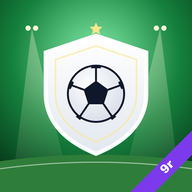
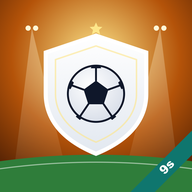
update 9s

diff --git a/css/style.css b/css/style.css
@@ -1,3 +1,7 @@
+/* 9s (FEEDBACK 100): the iPhone home-bar space is added only in the home-screen app. In the Safari browser that space sits
+   under Safari's own toolbar, so adding it there only made the bottom bars taller. */
+:root{--sab:0px}
+@media all and (display-mode: standalone){:root{--sab:env(safe-area-inset-bottom)}}
 
 
 :root{
@@ -270,7 +274,7 @@ body{background:var(--page);font-family:Nunito,system-ui,sans-serif;color:var(--
 .view.scrolly{overflow-y:auto;padding-bottom:96px}
 .view.scrolly::-webkit-scrollbar{display:none}
 button{font-family:inherit;cursor:pointer;color:inherit}
-.tabs{z-index:8;padding-bottom:calc(10px + env(safe-area-inset-bottom))}
+.tabs{z-index:8;padding-bottom:calc(10px + var(--sab))}
 .tab{cursor:pointer;background:none;border:0}
 .hud.top{padding-top:calc(10px + env(safe-area-inset-top))}
 .iconbtn{width:34px;height:34px;border-radius:11px;border:0;background:rgba(0,0,0,.35);color:#fff;font-size:17px;display:inline-flex;align-items:center;justify-content:center}
@@ -281,7 +285,7 @@ button{font-family:inherit;cursor:pointer;color:inherit}
 /* sheets with back history */
 .sheet-bg{position:absolute;inset:0;background:rgba(10,15,30,.5);z-index:20;display:flex;align-items:flex-end;animation:fade .15s}
 @keyframes fade{from{opacity:0}}
-.sheet{width:100%;max-height:92%;overflow-y:auto;background:var(--bg);border-radius:24px 24px 0 0;padding-bottom:calc(20px + env(safe-area-inset-bottom));animation:up .2s ease-out}
+.sheet{width:100%;max-height:92%;overflow-y:auto;background:var(--bg);border-radius:24px 24px 0 0;padding-bottom:calc(20px + var(--sab));animation:up .2s ease-out}
 @keyframes up{from{transform:translateY(40px);opacity:.5}}
 .sheet .grab{width:44px;height:5px;border-radius:3px;background:var(--line);margin:8px auto 2px}
 .shdr{display:flex;align-items:center;gap:8px;padding:6px 12px 8px}
@@ -686,7 +690,7 @@ button{font-family:inherit;cursor:pointer;color:inherit}
 .btn:disabled{opacity:.45;box-shadow:none;cursor:default}
 
 /* ---------- key art (Phase 9) ---------- */
-.splash{justify-content:flex-end;padding-bottom:calc(48px + env(safe-area-inset-bottom));overflow:hidden}
+.splash{justify-content:flex-end;padding-bottom:calc(48px + var(--sab));overflow:hidden}
 .splash>*:not(.splashart){position:relative;z-index:1}
 .splashart{position:absolute;inset:0}
 .splashart:after{content:"";position:absolute;inset:0;background:linear-gradient(180deg,rgba(11,16,38,.55) 0%,rgba(11,16,38,0) 28%,rgba(11,16,38,0) 52%,rgba(11,16,38,.92) 100%)}
@@ -773,7 +777,7 @@ button{font-family:inherit;cursor:pointer;color:inherit}
 .ccard.pick .ben{font-size:13px;font-weight:900;color:var(--fit5);margin:3px 0}
 
 /* ---------- phase-9d: title screen and Home ---------- */
-.title{position:absolute;inset:0;display:flex;flex-direction:column;align-items:center;color:#fff;text-align:center;padding:calc(15vh + env(safe-area-inset-top)) 24px calc(40px + env(safe-area-inset-bottom));overflow:hidden;background:#0b1026}
+.title{position:absolute;inset:0;display:flex;flex-direction:column;align-items:center;color:#fff;text-align:center;padding:calc(15vh + env(safe-area-inset-top)) 24px calc(40px + var(--sab));overflow:hidden;background:#0b1026}
 .title>*:not(.splashart){position:relative;z-index:1}
 .title h1{font-family:Graduate,serif;font-size:50px;letter-spacing:1px;text-shadow:0 3px 0 #c2410c,0 8px 24px rgba(0,0,0,.6)}
 .title .tag{font-weight:800;opacity:.9;margin-top:6px;text-shadow:0 2px 8px rgba(0,0,0,.8)}
@@ -1067,9 +1071,9 @@ button{font-family:inherit;cursor:pointer;color:inherit}
 .pgres{margin-top:7px}.pgres span{background:rgba(0,0,0,.25)}
 .pgbody{flex:1;min-height:0;overflow-y:auto;padding-top:12px;padding-bottom:16px;-webkit-overflow-scrolling:touch}
 .pgbody .res.inv{display:none}
-.pgft{flex:none;display:flex;align-items:center;background:#1e293b;padding:7px 12px calc(7px + env(safe-area-inset-bottom))}
+.pgft{flex:none;display:flex;align-items:center;background:#1e293b;padding:7px 12px calc(7px + var(--sab))}
 .backarrow{width:60px;height:44px;border:0;border-radius:10px;background:linear-gradient(180deg,#38bdf8,#1d4ed8);box-shadow:0 3px 0 #1e3a8a;display:flex;align-items:center;justify-content:center}
-.pop-bg{position:absolute;left:0;right:0;top:calc(84px + env(safe-area-inset-top));bottom:calc(62px + env(safe-area-inset-bottom));z-index:25;background:rgba(10,15,30,.55);display:flex;align-items:center;justify-content:center;padding:6px 10px;animation:fade .15s}
+.pop-bg{position:absolute;left:0;right:0;top:calc(84px + env(safe-area-inset-top));bottom:calc(62px + var(--sab));z-index:25;background:rgba(10,15,30,.55);display:flex;align-items:center;justify-content:center;padding:6px 10px;animation:fade .15s}
 .pop{width:100%;max-width:420px;max-height:100%;display:flex;flex-direction:column;background:var(--bg);border-radius:14px;border:2px solid #64748b;box-shadow:0 18px 40px rgba(0,0,0,.5);overflow:hidden;animation:pop .18s ease-out}
 .pophd{flex:none;display:flex;align-items:center;justify-content:space-between;background:#4a5873;color:#fff;padding:9px 12px}
 .pophd b{font:600 21px/1 Teko,sans-serif;font-style:italic;text-transform:uppercase;letter-spacing:.5px}
@@ -1081,8 +1085,8 @@ button{font-family:inherit;cursor:pointer;color:inherit}
 /* campus */
 .hammer,.upar{animation:none}
 .zbtns{display:none}
-.side.sbl{top:auto;left:8px;bottom:calc(78px + env(safe-area-inset-bottom))}
-.side.srb{top:auto;right:8px;bottom:calc(78px + env(safe-area-inset-bottom));gap:6px}.side.srb .ev .c{width:42px;height:42px;font-size:21px}
+.side.sbl{top:auto;left:8px;bottom:calc(78px + var(--sab))}
+.side.srb{top:auto;right:8px;bottom:calc(78px + var(--sab));gap:6px}.side.srb .ev .c{width:42px;height:42px;font-size:21px}
 .side.sbl .ev{width:56px;font-size:14px}.ev.comms .c{border-radius:50%}
 .fixz{cursor:pointer}
 
@@ -1205,17 +1209,17 @@ button{font-family:inherit;cursor:pointer;color:inherit}
 .view .side{gap:7px}
 .side.tl9{left:8px;top:calc(84px + env(safe-area-inset-top))}
 .side.tr9{right:8px;top:calc(84px + env(safe-area-inset-top))}
-.side.bl9{left:10px;top:auto;bottom:calc(120px + env(safe-area-inset-bottom))}
-.side.br9{right:8px;top:auto;bottom:calc(120px + env(safe-area-inset-bottom))}
+.side.bl9{left:10px;top:auto;bottom:calc(120px + var(--sab))}
+.side.br9{right:8px;top:auto;bottom:calc(120px + var(--sab))}
 .sqb{position:relative;background:none;border:0;padding:0;width:48px;text-align:center;color:#fff;font:600 12.5px/1 Teko,sans-serif;text-shadow:0 1px 0 #0f172a,0 -1px 0 #0f172a,1px 0 0 #0f172a,-1px 0 0 #0f172a;cursor:pointer}
 .sqc{display:flex;align-items:center;justify-content:center;width:42px;height:42px;margin:0 auto 1px;border-radius:10px;border:2px solid #0f172a;box-shadow:0 2px 0 #0f172a,inset 0 1px 0 #fff6}
 .sqb b{display:block;font-weight:600;letter-spacing:.3px}
 .rnd{position:relative;width:40px;height:40px;border-radius:50%;background:rgba(51,65,85,.88);border:2.5px solid #e2e8f0;display:flex;align-items:center;justify-content:center;box-shadow:0 0 0 1.5px #0f172a,0 2px 4px #0006;cursor:pointer;padding:0}
 .rd{position:absolute;top:-4px;right:-3px;min-width:15px;height:15px;padding:0 3px;border-radius:8px;background:#ef4444;border:1.5px solid #fff;color:#fff;font:900 9.5px/12px Nunito;font-style:normal;text-shadow:none}
 .rd:empty{min-width:11px;width:11px;height:11px;padding:0}
-.taskstrip{position:absolute;left:8px;right:8px;bottom:calc(76px + env(safe-area-inset-bottom));z-index:3;display:flex;align-items:center;gap:8px;background:rgba(15,23,42,.82);border:1.5px solid #0f172a;border-radius:8px;padding:5px 8px;color:#fff;font:800 13px Nunito;text-align:left;cursor:pointer}
+.taskstrip{position:absolute;left:8px;right:8px;bottom:calc(76px + var(--sab));z-index:3;display:flex;align-items:center;gap:8px;background:rgba(15,23,42,.82);border:1.5px solid #0f172a;border-radius:8px;padding:5px 8px;color:#fff;font:800 13px Nunito;text-align:left;cursor:pointer}
 .taskstrip .tst{flex:1;white-space:nowrap;overflow:hidden;text-overflow:ellipsis}.taskstrip .tsg{color:#fde047;font-size:18px}
-.drawer{position:absolute;left:0;right:0;bottom:calc(70px + env(safe-area-inset-bottom));z-index:4;background:rgba(15,23,42,.94);border-top:2px solid #0f172a;padding:6px 0 8px}
+.drawer{position:absolute;left:0;right:0;bottom:calc(70px + var(--sab));z-index:4;background:rgba(15,23,42,.94);border-top:2px solid #0f172a;padding:6px 0 8px}
 .dtabs{display:flex;gap:6px;padding:0 8px 6px}.dtabs button{border:1.5px solid #0f172a;border-radius:8px;background:#334155;color:#cbd5e1;font:900 13px Nunito;padding:5px 12px}
 .dtabs button.on{background:#ea580c;color:#fff}.dtabs button:disabled{opacity:.45}.dtabs .dx{margin-left:auto;background:#475569;color:#fff}
 .dstrip{display:flex;gap:8px;overflow-x:auto;padding:4px 8px;scroll-snap-type:x proximity}
@@ -1329,3 +1333,16 @@ html,body{height:100%;overflow:hidden}
 .hhead9{display:flex;gap:12px;align-items:center;margin:10px 12px 0;padding:12px;border-radius:14px;color:#fff;background:linear-gradient(135deg,var(--c1),#0f172a);border:2px solid #0f172a}
 .hhead9 b{font:900 22px/1.05 Graduate,serif;display:block}.hhead9 small{display:block;font-weight:800;font-size:12px;opacity:.9;margin-top:4px}
 .chpop{position:fixed;z-index:130;background:#f8fafc;color:#0f172a;border:2px solid #0f172a;border-radius:10px;padding:8px;box-shadow:0 4px 0 #0f172a;max-width:280px;animation:pop .15s}.chpop b{display:block;font:900 12px Nunito;margin-bottom:4px}
+
+/* 9s: no double-tap zoom; a bigger drawer close button that stays in view */
+html,body{touch-action:manipulation}
+.dtabs{flex-wrap:nowrap}.dtabs button{flex:none}
+.dtabs .dx{position:sticky;right:0;min-width:40px;min-height:34px;font-size:18px;background:#ef4444;color:#fff}
+
+/* any gap left under the frame matches the tab bar instead of showing a grey band */
+html,body{background:var(--card)}
+
+.standalone{--sab:env(safe-area-inset-bottom)}
+#errbar{position:fixed;left:6px;right:6px;top:calc(6px + env(safe-area-inset-top));z-index:999;background:#b91c1c;color:#fff;font:700 12px/1.35 system-ui,sans-serif;border:2px solid #0f172a;border-radius:8px;padding:6px 8px;max-height:40vh;overflow:auto}
+#errbar div+div{margin-top:4px;border-top:1px solid #fff4;padding-top:4px}
+.diag{font:12px/1.5 ui-monospace,Menlo,monospace;background:var(--bg);border-radius:8px;padding:8px;white-space:pre-wrap}

diff --git a/js/screens.js b/js/screens.js
@@ -43,7 +43,7 @@
     const busy = car.queue.length, open = C.openSlots(), rc = C.readyCount();
     const sq = (act, icon, label, badge, bg) => `<button class="sqb" data-act="${act}"><span class="sqc" style="background:${bg}">${C.ico(icon, 26)}</span>${label ? `<b>${label}</b>` : ''}${badge ? `<i class="rd">${badge === true ? '' : badge}</i>` : ''}</button>`;
     const rnd = (act, icon, badge) => `<button class="rnd" data-act="${act}">${C.ico(icon, 24)}${badge ? `<i class="rd">${badge === true ? '' : badge}</i>` : ''}</button>`;
-    const t = C.mainNext && C.mainNext(), claim = t && t[3](car), task = t ? (claim ? `Claim: ${t[2]}` : t[2]) : '';
+    const st = C.stripTask(), claim = st && st.claim, task = st ? st.text : '';
     const newB = Object.keys(C.BUILDINGS).filter(C.buildable).length, readyB = car.queue.some(q => C.buildReady(q.key));
     return `<div class="view">
       <div class="map" id="map"><div id="mapin"></div></div>
@@ -68,6 +68,13 @@
       ${C.drawerOpen ? drawerHTML() : ''}
     </div>`;
   }
+  // screen measurements for checking phone layouts (FEEDBACK 100)
+  C.diagText = () => { const pr = document.createElement('div'); pr.style.cssText = 'position:fixed;bottom:0;height:env(safe-area-inset-bottom);top:env(safe-area-inset-top)'; document.body.appendChild(pr);
+    const cs = getComputedStyle(pr), sab = cs.height, sat = cs.top; pr.remove(); const app = C.$('#app'), r = app ? app.getBoundingClientRect() : { top: 0, bottom: 0, height: 0 }, tb = C.$('.tabs'), t = tb ? tb.getBoundingClientRect() : null;
+    const vv = window.visualViewport;
+    return [`screen ${screen.width}×${screen.height} · dpr ${devicePixelRatio}`, `window ${innerWidth}×${innerHeight}`, `visible ${vv ? Math.round(vv.width) + '×' + Math.round(vv.height) + ' · zoom ' + vv.scale.toFixed(2) : 'n/a'}`,
+      `home-bar space ${sab} · top inset ${sat}`, `app frame ${Math.round(r.top)}–${Math.round(r.bottom)} (h ${Math.round(r.height)})`, t ? `tab bar ${Math.round(t.top)}–${Math.round(t.bottom)}` : 'tab bar n/a',
+      `home-screen app ${matchMedia('(display-mode: standalone)').matches || navigator.standalone ? 'yes' : 'no'}`].join('\n'); };
   // ---------- the one top bar (FEEDBACK 75, 97): college badge as the profile box, resources where you can spend, Store ----------
   C.topBar = (spend, cls = 'tbstatic') => { const car = C.car(), col = C.college(), a = C.acct();
     return `<div class="${cls} tb9">
@@ -232,9 +239,24 @@
   C.ACTS.bgo = v => C.goToBuilding(v);
   C.ACTS.rqueue = () => C.openResearchQueue();
   // the task strip (FEEDBACK 94): claims on the spot when done; otherwise takes you straight to the task
-  C.ACTS.taskgo = () => { const t = C.mainNext && C.mainNext(); if (!t) return; const car = C.car();
-    if (t[3](car)) { const strip = C.$('.taskstrip'), from = strip ? strip.getBoundingClientRect() : null, r = C.mainClaim(t[0]); if (r) { C.render(); C.flyRewards(r, from); } return; }
-    const [act, v] = [t[5], t[6]];
+  // what the strip shows (FEEDBACK 94, 101): a finished Mission to claim; otherwise the next Mission if you can act on it now;
+  // otherwise the most useful thing to do now. Long-term goals (a whole season, several wins) stay on the Missions screen.
+  const LONG = { top4: 1, wins3: 1, win: 1 };
+  C.stripTask = () => { const car = C.car(), t = C.mainNext && C.mainNext();
+    if (t && t[3](car) && t[0] !== 'recfill') return { claim: 1, text: `Claim: ${t[2]}`, t };
+    if (t && !LONG[t[0]] && !(t[5] === 'bldopen' && !C.readyArrow(t[6]) && !C.buildable(t[6]))) return { text: t[2], t };
+    const ks = Object.keys(C.BUILDINGS), done = car.queue.find(q => C.buildReady(q.key));
+    if (done) return { text: `Complete the ${C.BUILDINGS[done.key].name}`, go: () => C.goToBuilding(done.key) };
+    const nb = ks.find(C.buildable); if (nb) return { text: `Build the ${C.BUILDINGS[nb].name}`, go: () => C.goToBuilding(nb) };
+    if (C.freeSlot()) { const r = C.recommendBuilding(); if (r && C.readyArrow(r)) return { text: `Upgrade the ${C.BUILDINGS[r].name} to Lv ${C.level(r) + 1}`, go: () => C.goToBuilding(r) }; }
+    const pr = C.pbRecommend && C.pbRecommend(); if (pr && C.pbAffordable(pr) && C.pbRunning() < C.pbSlots()) return { text: `Research ${C.pbName(pr)}`, go: () => C.act('pbrec') };
+    const open = C.rosterCap(car) - car.squad.length; if (open > 0) return { text: `Fill ${open} open roster spot${open > 1 ? 's' : ''}`, go: () => { C.tab = 'recruit'; C.render(); } };
+    if (!car.pre && C.myFixture && C.myFixture()) return { text: 'Play your next match', go: () => C.act('prematch') };
+    return t ? { text: t[2], t } : null; };
+  C.ACTS.taskgo = () => { const st = C.stripTask(); if (!st) return;
+    if (st.claim) { const strip = C.$('.taskstrip'), from = strip ? strip.getBoundingClientRect() : null, r = C.mainClaim(st.t[0]); if (r) { C.render(); C.flyRewards(r, from); } return; }
+    if (st.go) return st.go();
+    const [act, v] = [st.t[5], st.t[6]];
     if (act === 'bldopen') return C.goToBuilding(v);
     if (act === 'tab') { C.tab = v; C.ui.closeAll(); return C.render(); }
     C.act(act, v); };
@@ -364,6 +386,7 @@
       <label class="fld">Art check: show every building at render… (map only, nothing is changed)</label>
       <div class="rgrid">${[0, 1, 2, 3, 4, 5, 6, 7, 8, 9, 10].map(v => `<button class="${(a.testRender || 0) === v ? 'on' : ''}" data-act="testrender" data-v="${v}">${v || 'Off'}</button>`).join('')}</div>
       <p class="note">Testing tools are for this preview build only.</p>
+      <label class="fld">Screen check (send a screenshot of this if anything looks off)</label><div class="diag" id="diag">${C.diagText()}</div>
       <p class="note">Version: ${C.BUILD}</p><button class="btn full sec2" data-act="checkupdate">🔄 Check for update</button>
       <button class="btn full danger" data-act="wipe">Delete all saved data…</button>`;
   });

diff --git a/js/main.js b/js/main.js
@@ -10,7 +10,7 @@
     if (col) { r.setProperty('--school', col.c1); r.setProperty('--school2', lum(col.c2) > .55 ? (lum(col.c1) < .5 ? col.c1 : '#ea580c') : col.c2); } };
 
   let e2 = null;
-  C.BUILD = 'phase-9r · 16 Nov 2026';
+  C.BUILD = 'phase-9s · 16 Nov 2026';
   // actions that spend something: show a preview first, act only once confirmed
   const NEEDS_OK = { buyweekly: 1, buydeal: 1, buy: 1, buypack: 1, cmanual: 1, clic: 1, ctrait: 1, treatc: 1, buykitc: 1, teamsess: 1, chire: 1 };
   function preview(a, v) {
@@ -37,6 +37,7 @@
     const car = C.car();
     if (NEEDS_OK[a] && !(el && el.dataset.ok)) { const pv = preview(a, v); if (pv) return C.confirm(pv[0], pv[1], pv[2], a, v); }
     if (el && el.dataset.ok) C.ui.back();
+    if (C.drawerOpen && a !== 'drawer' && a !== 'drawertab') { C.drawerOpen = false; const d = C.$('.drawer'); if (d) d.remove(); }   // any action from the drawer closes it
     if (C.ACTS[a]) return C.ACTS[a](v, el);   // actions registered by later modules (meta.js)
     switch (a) {
       case 'tab': C.tab = v; C.selB = null; C.ui.closeAll(); C.render(); break;
@@ -241,9 +242,16 @@
       <button class="btn full pri" data-act="close">Let's build</button>`);
   }
 
+  // 9s (FEEDBACK 101): no page zoom anywhere. iPhone Safari ignores user-scalable=no, so pinches outside the map and
+  // its gesture events are stopped here; the map keeps its own pinch zoom (pointer events, touch-action: none).
+  ['gesturestart', 'gesturechange', 'gestureend'].forEach(ev => document.addEventListener(ev, e => e.preventDefault(), { passive: false }));
+  document.addEventListener('touchmove', e => { if (e.touches.length > 1 && !e.target.closest('#map')) e.preventDefault(); }, { passive: false });
+  let lastTouchEnd = 0; document.addEventListener('touchend', e => { const t = Date.now(); if (t - lastTouchEnd < 320 && !e.target.closest('#map, input, textarea')) e.preventDefault(); lastTouchEnd = t; }, { passive: false });
   // one tap handler for everything
   document.addEventListener('click', e => {
     const el = e.target.closest('[data-act]');
+    // the build drawer closes on any tap outside it (FEEDBACK 101)
+    if (C.drawerOpen && !e.target.closest('.drawer') && !(el && el.dataset.act === 'drawer')) { C.drawerOpen = false; C.render(); if (!el) return; }
     if (!el) { if (C.selB && e.target.closest('#map') && !C.mapDragged()) { C.selB = null; C.redrawMap(); } return; }
     if (el.dataset.act === 'bgclose' && e.target !== el) return;
     e2 = e; act(el.dataset.act, el.dataset.v, el);

diff --git a/sw.js b/sw.js
@@ -1,8 +1,8 @@
 // Club FC offline cache. Bump VERSION when you publish a new build.
-const PREFIX = 'clubfc2-p9r';
-const VERSION = 'clubfc2-p9r-net1';
+const PREFIX = 'clubfc2-p9s';
+const VERSION = 'clubfc2-p9s-net1';
 const FILES = ['./', './index.html', './manifest.webmanifest', './css/style.css',
-  './js/util.js', './js/data.js', './js/art-scenes.js', './img/manifest.json', './js/state.js', './js/build.js', './js/names.js', './js/art-faces.js', './js/players.js', './js/squad.js', './js/recruit.js', './js/engine.js', './js/season.js', './js/tactics.js', './js/match.js', './js/staff.js', './js/playbook.js', './js/career.js', './js/liveops.js', './js/medical.js', './js/home.js', './js/icons.js', './js/campus-meta.js', './js/campus-env.js', './js/stadium-paint.js', './js/tower-paint.js', './js/art-campus.js', './js/ui.js', './js/jobs.js', './js/help.js', './js/ad.js', './js/screens.js', './js/meta.js', './js/map.js', './js/progress.js', './js/gear.js', './js/academic.js', './js/levelup.js', './js/research.js', './js/main.js',
+  './js/errbar.js', './js/util.js', './js/data.js', './js/art-scenes.js', './img/manifest.json', './js/state.js', './js/build.js', './js/names.js', './js/art-faces.js', './js/players.js', './js/squad.js', './js/recruit.js', './js/engine.js', './js/season.js', './js/tactics.js', './js/match.js', './js/staff.js', './js/playbook.js', './js/career.js', './js/liveops.js', './js/medical.js', './js/home.js', './js/icons.js', './js/campus-meta.js', './js/campus-env.js', './js/stadium-paint.js', './js/tower-paint.js', './js/art-campus.js', './js/ui.js', './js/jobs.js', './js/help.js', './js/ad.js', './js/screens.js', './js/meta.js', './js/map.js', './js/progress.js', './js/gear.js', './js/academic.js', './js/levelup.js', './js/research.js', './js/main.js',
   './icon-192.png', './icon-512.png', './apple-touch-icon.png'];
 
 // Network first, so a new upload shows up as soon as the page is opened online.

diff --git a/js/state.js b/js/state.js
@@ -1,6 +1,6 @@
 // Club FC: save data, careers (save slots), account and the two clocks (Q13, Q27).
 (function (C) {
-  const KEY = 'clubfc2_p9r';
+  const KEY = 'clubfc2_p9s';
   const FREE_SLOTS = 2;
 
   // Account-wide: Coins and purchases are shared across careers.
@@ -10,7 +10,7 @@
 
   C.load = () => {
     // first open: carry over the latest earlier save (9b, then 9) (and intro flag) so playtest progress isn't lost
-    try { for (const old of ['clubfc2_p9q', 'clubfc2_p9p', 'clubfc2_p9o', 'clubfc2_p9n', 'clubfc2_p9m', 'clubfc2_p9l', 'clubfc2_p9k', 'clubfc2_p9j', 'clubfc2_p9i', 'clubfc2_p9h', 'clubfc2_p9g', 'clubfc2_p9f', 'clubfc2_p9e', 'clubfc2_p9d', 'clubfc2_p9c', 'clubfc2_p9b', 'clubfc2_p9']) { if (!localStorage.getItem(KEY) && localStorage.getItem(old)) { localStorage.setItem(KEY, localStorage.getItem(old)); if (localStorage.getItem(old + '_intro')) localStorage.setItem(KEY + '_intro', '1'); } } } catch (e) { }
+    try { for (const old of ['clubfc2_p9r', 'clubfc2_p9q', 'clubfc2_p9p', 'clubfc2_p9o', 'clubfc2_p9n', 'clubfc2_p9m', 'clubfc2_p9l', 'clubfc2_p9k', 'clubfc2_p9j', 'clubfc2_p9i', 'clubfc2_p9h', 'clubfc2_p9g', 'clubfc2_p9f', 'clubfc2_p9e', 'clubfc2_p9d', 'clubfc2_p9c', 'clubfc2_p9b', 'clubfc2_p9']) { if (!localStorage.getItem(KEY) && localStorage.getItem(old)) { localStorage.setItem(KEY, localStorage.getItem(old)); if (localStorage.getItem(old + '_intro')) localStorage.setItem(KEY + '_intro', '1'); } } } catch (e) { }
     try { const raw = localStorage.getItem(KEY); if (raw) { const d = JSON.parse(raw); if (d && d.v === 2) C.db = d; } } catch (e) { /* storage blocked: play without saving */ }
     C.db.account = Object.assign(freshAccount(), C.db.account);
     C.db.careers.forEach(c => { if (c.job && !c.job.mix) { c.job.rating = { 3: 46, 2: 42, 1: 38 }[c.job.stars] + 1; c.job.mix = [6, 6, 5, 4]; } C.ensureSquad(c);

diff --git a/js/errbar.js b/js/errbar.js
@@ -1,0 +1,16 @@
+// Club FC: on-screen error banner (9s, FEEDBACK 101). Any script error shows as a small red bar with the message and where it
+// happened, so faults that only happen on a phone can be screenshotted. Tap the bar to hide it.
+(function () {
+  if (navigator.standalone) document.documentElement.classList.add('standalone');   // older iPhones: home-screen app without display-mode
+  const seen = new Set();
+  function show(msg, where) {
+    const key = msg + where; if (seen.has(key)) return; seen.add(key);
+    const go = () => { let bar = document.getElementById('errbar');
+      if (!bar) { bar = document.createElement('div'); bar.id = 'errbar'; bar.addEventListener('click', () => bar.remove()); document.body.appendChild(bar); }
+      const row = document.createElement('div'); row.textContent = '⚠ ' + msg + (where ? '  (' + where + ')' : ''); bar.appendChild(row); };
+    if (document.body) go(); else addEventListener('DOMContentLoaded', go);
+  }
+  addEventListener('error', e => show(e.message || 'Error', e.filename ? e.filename.split('/').pop() + ':' + e.lineno : ''));
+  addEventListener('unhandledrejection', e => show(String(e.reason && e.reason.message || e.reason), 'promise'));
+  window.CFC_showError = show;
+})();

diff --git a/js/home.js b/js/home.js
@@ -30,7 +30,7 @@
     const car = C.car(), d = daily(), inj = car.squad.filter(p => p.inj && p.injury && !p.injury.physio && p.injury.sev === 0 && !p.injury.conc && p.injury.k !== 'flu').length;
     const ready = Object.keys(C.BUILDINGS).filter(k => C.readyArrow(k) || (C.newBuildable().includes(k) && C.requirements(k).every(r => r[2])));
     if (!C.loginClaimed()) return ['🎁', 'Claim your login reward.', 'dailytasks', ''];
-    if (C.mainNext) { const t = C.mainNext(); if (t && (car.pre || C.meta().main.length < 10)) return t[3](car) ? ['🎯', `Claim your Mission reward: ${t[2]}.`, 'events', ''] : [t[1], t[2] + '.', t[5], t[6]]; }
+    if (C.stripTask) { const st = C.stripTask(); if (st && (car.pre || C.meta().main.length < 10 || st.go)) return [st.claim ? '🎯' : '👉', st.text + '.', 'taskgo', '']; }   // same as the campus task strip (9s)
     if (C.loClaimable()) return ['🎉', `You have ${C.loClaimable()} reward${C.loClaimable() > 1 ? 's' : ''} waiting in Events.`, 'events', ''];
     if (C.idleBuilders() && ready.length) return ['🔨', `A builder is free: upgrade the ${C.BUILDINGS[ready[0]].name}.`, 'bldopen', ready[0]];
     const coll = Object.keys(C.PRODUCERS).filter(k => C.bubble(k));

diff --git a/js/meta.js b/js/meta.js
@@ -109,7 +109,7 @@
     M.day = dayKey(); M.pts = 0; M.chests = [];
     const r = C.rng(new Date().getDate() * 131 + new Date().getMonth() * 17), pool = DAILY.slice();
     M.daily = [{ id: 'login', n: 1, goal: 1, claimed: false }].concat([0, 1, 2, 3, 4].map(() => { const t = pool.splice(Math.floor(r() * pool.length), 1)[0]; return { id: t[0], n: 0, goal: t[3], claimed: false }; })); }
-  C.daily = () => { rollDaily(); return meta().daily.map(t => Object.assign({}, t, { def: t.id === 'login' ? LOGIN : DAILY.find(x => x[0] === t.id) })); };
+  C.daily = () => { rollDaily(); const M = meta(); M.daily = M.daily.filter(t => t.id === 'login' || DAILY.some(x => x[0] === t.id)); return M.daily.map(t => Object.assign({}, t, { def: t.id === 'login' ? LOGIN : DAILY.find(x => x[0] === t.id) })); };
   C.loginClaimed = () => { rollDaily(); const t = meta().daily.find(x => x.id === 'login'); return !t || t.claimed; };
   C.giftClaimed = () => !C.car() || C.loginClaimed();
   C.dailyEvent = (id, n = 1) => { if (!C.car()) return; rollDaily(); meta().daily.forEach(t => { if (t.id === id) t.n = Math.min(t.goal, t.n + n); }); };

diff --git a/index.html b/index.html
@@ -2,12 +2,12 @@
 <html lang="en">
 <head>
 <meta charset="utf-8">
-<meta name="viewport" content="width=device-width,initial-scale=1,viewport-fit=cover">
+<meta name="viewport" content="width=device-width,initial-scale=1,maximum-scale=1,user-scalable=no,viewport-fit=cover">
 <meta name="theme-color" content="#0f1b3d">
 <meta name="apple-mobile-web-app-capable" content="yes">
 <meta name="apple-mobile-web-app-status-bar-style" content="black-translucent">
 <title>Club FC</title>
-<meta name="apple-mobile-web-app-title" content="Club FC 9r">
+<meta name="apple-mobile-web-app-title" content="Club FC 9s">
 <link rel="manifest" href="manifest.webmanifest">
 <link rel="apple-touch-icon" href="apple-touch-icon.png">
 <link rel="preconnect" href="https://fonts.googleapis.com">
@@ -16,6 +16,7 @@
 </head>
 <body>
 <div id="app"><div id="screen"></div><div id="matchv"></div><div id="layer"></div></div>
+<script src="js/errbar.js"></script>
 <script src="js/util.js"></script>
 <script src="js/data.js"></script>
 <script src="js/art-scenes.js"></script>
